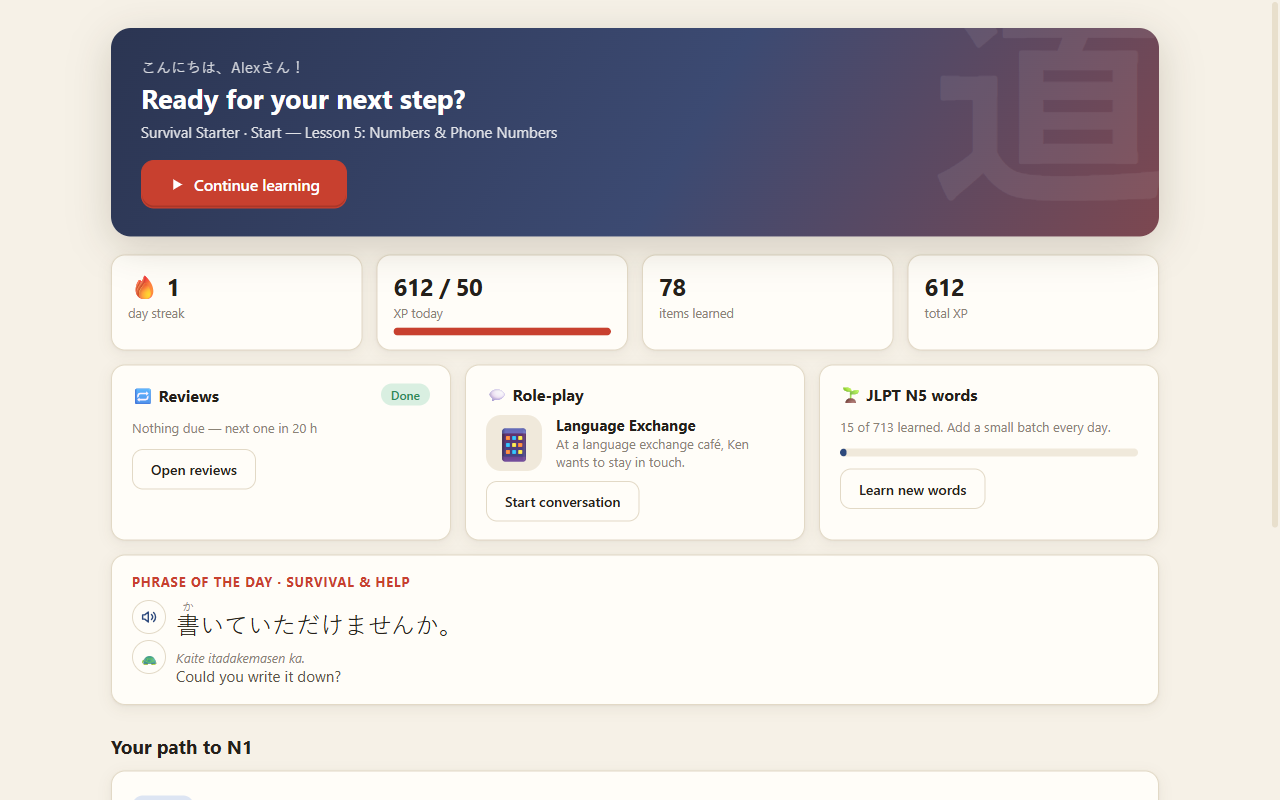
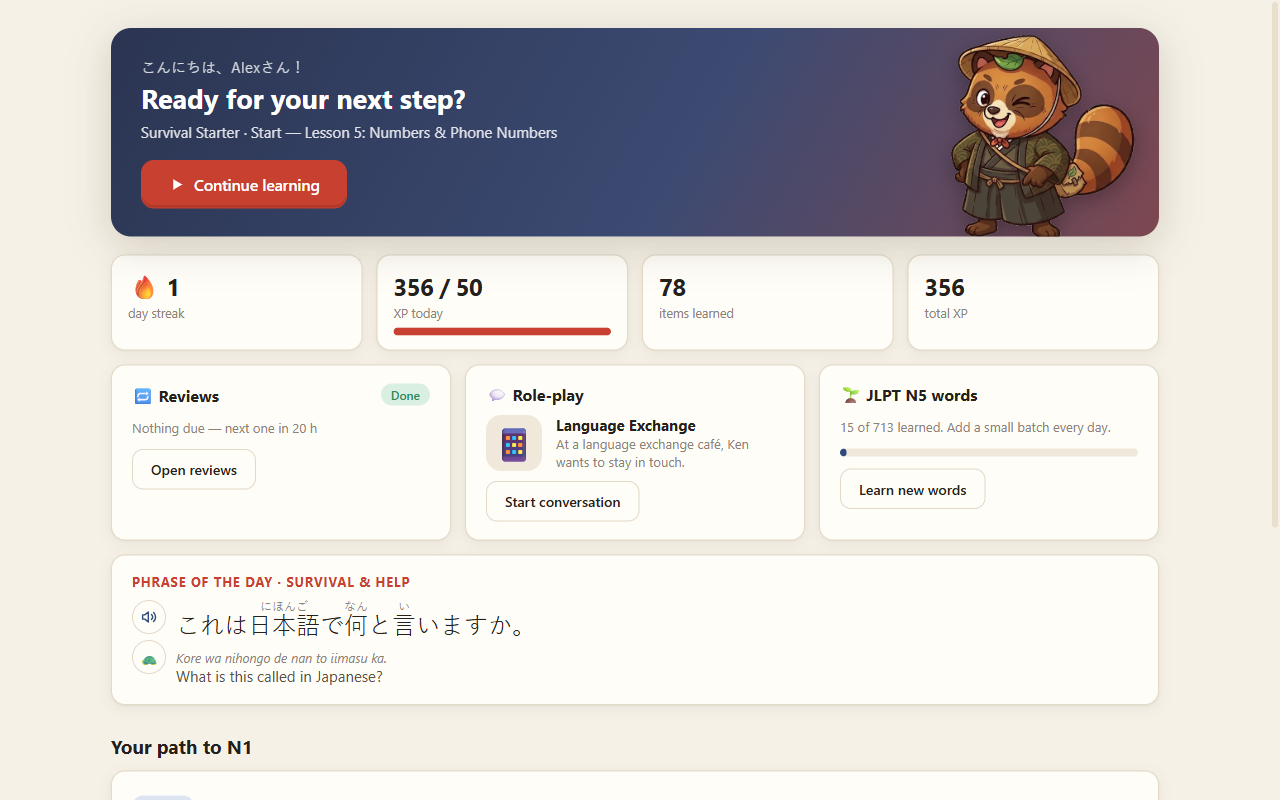
Add Tabi the tanuki mascot
Tabi (旅, "journey") — a travelling tanuki with a straw hat and a shape-shifting leaf — greets
learners on the welcome screen and in onboarding, stands at the edge of the home banner, and
cheers on the lesson and review completion screens with a line that depends on the result.
The artwork is cut out of its white background (transparent WebP, 46 KB) and included in the
offline cache. README shows Tabi and phone screenshots.

diff --git a/src/app/views.js b/src/app/views.js
@@ -40,11 +40,12 @@
     const goal = st.settings.dailyGoal || 50;
     const pg = h('div.page');
     const lvl = next ? next.lv : JT.LEVELS[JT.LEVELS.length - 1];
-    const hero = h('div.hero',
+    const hero = h('div.hero.with-mascot',
       h('div.hero-jp', jp + (st.name ? '、' + st.name + 'さん' : '') + '！'),
       h('h1', next ? (Object.keys(st.lessons).length ? 'Ready for your next step?' : 'Your journey to fluent Japanese starts here') : 'You have completed the whole course! 🏆'),
       h('div', { style: { opacity: 0.85 } }, next ? `${lvl.title} · ${lvl.tag} — Lesson ${next.index + 1}: ${next.title}` : 'Keep your reviews going and try the JLPT mock exams.'),
-      next ? h('button.btn.primary.lg', { type: 'button', onclick: () => JT.Lesson.start(next) }, icon('play'), Object.keys(st.lessons).length ? 'Continue learning' : 'Start lesson 1') : null);
+      next ? h('button.btn.primary.lg', { type: 'button', onclick: () => JT.Lesson.start(next) }, icon('play'), Object.keys(st.lessons).length ? 'Continue learning' : 'Start lesson 1') : null,
+      h('img.hero-mascot', { src: 'img/tabi.webp', alt: '', draggable: 'false' }));
     pg.appendChild(hero);
     const ab = audioBanner();
     if (ab) pg.appendChild(ab);
@@ -414,7 +415,7 @@
     const profiles = ix.profiles.slice().sort((a, b) => (b.lastUsed || 0) - (a.lastUsed || 0));
     const pg = h('div.profile-screen');
     pg.append(
-      h('div.logo', { style: { margin: '0 auto 14px', width: '68px', height: '68px', fontSize: '38px' } }, '道'),
+      JT.ui.mascot({ size: 150 }),
       h('div.jp.muted', profiles.length ? '今日は誰が勉強しますか？' : 'ようこそ！'),
       h('h1', profiles.length ? 'Who\'s learning today?' : 'Welcome to Nihongo Michi'),
       h('p.muted', profiles.length ? 'Each learner keeps their own lessons, reviews and streak.' : 'Real-world Japanese from zero to JLPT N1. First, tell us your name — everyone who uses this ' + JT.platform.device + ' gets their own progress.'));
@@ -546,7 +547,7 @@
       else JT.go('home');
     };
     m = JT.ui.modal([
-      h('div.center', h('div.logo', { style: { margin: '0 auto 12px', width: '64px', height: '64px', fontSize: '36px' } }, '道'),
+      h('div.center', JT.ui.mascot({ size: 120, say: [['はじめまして！', 'タビ です。'], 'Hi, I\'m Tabi! I\'ll walk the road to Japanese with you.'] }),
         h('div.jp.muted', 'ようこそ、' + JT.state.name + 'さん！'), h('h2', { style: { margin: '4px 0 6px' } }, 'Welcome to Nihongo Michi, ' + JT.state.name)),
       h('p.muted', { style: { textAlign: 'center', marginTop: 0 } }, 'Real-world Japanese from zero to JLPT N1.'),
       h('ul.goal-list.small',

diff --git a/src/styles.css b/src/styles.css
@@ -252,6 +252,22 @@ input[type=range] { accent-color: var(--accent); }
   color: rgba(255,255,255,.07); pointer-events: none;
 }
 .hero h1 { margin: 0 0 6px; font-size: 27px; }
+/* Tabi the tanuki standing at the edge of the home banner */
+.hero.with-mascot { padding-right: 230px; }
+.hero.with-mascot::after { display: none; }
+.hero-mascot { position: absolute; right: 22px; bottom: -6px; height: 210px; pointer-events: none; filter: drop-shadow(0 6px 10px rgba(0,0,0,.28)); }
+
+.mascot { display: block; margin: 0 auto; user-select: none; -webkit-user-drag: none; filter: drop-shadow(0 4px 8px rgba(60,40,10,.18)); }
+.mascot-say { display: flex; align-items: center; justify-content: center; gap: 4px; margin-bottom: 6px; }
+.mascot-say .mascot { margin: 0; }
+.say-bubble {
+  position: relative; background: var(--surface); border: 1.5px solid var(--line); border-radius: 16px; padding: 10px 16px;
+  text-align: left; box-shadow: var(--shadow); max-width: 260px; margin-bottom: 40px;
+}
+.say-bubble::before { content: ""; position: absolute; left: -9px; top: 50%; width: 14px; height: 14px; background: var(--surface); border-left: 1.5px solid var(--line); border-bottom: 1.5px solid var(--line); transform: translateY(-50%) rotate(45deg); }
+.say-bubble .jpt { font-size: 19px; font-weight: 700; line-height: 1.5; }
+.profile-screen .mascot { margin-bottom: 10px; }
+:root[data-theme="dark"] .mascot { filter: drop-shadow(0 0 1px rgba(255,255,255,.35)) drop-shadow(0 4px 10px rgba(0,0,0,.5)); }
 .hero .hero-jp { font-family: var(--jp); opacity: .8; font-size: 15px; }
 .hero .btn.primary { margin-top: 18px; }
 .stat-tiles { display: grid; grid-template-columns: repeat(4, minmax(0,1fr)); gap: 14px; }
@@ -537,6 +553,12 @@ table.tbl td, table.tbl th { padding: 8px 10px; border-bottom: 1px solid var(--l
   .hero { padding: 20px 18px; border-radius: 16px; }
   .hero h1 { font-size: 22px; }
   .hero::after { font-size: 170px; bottom: -44px; }
+  .hero.with-mascot { padding-right: 18px; padding-bottom: 22px; }
+  .hero.with-mascot .btn.primary { position: relative; z-index: 1; }
+  .hero-mascot { height: 118px; right: 8px; bottom: -4px; }
+  .hero.with-mascot > div:not(.hero-jp) { padding-right: 104px; }   /* the lesson line stays clear of Tabi */
+  .say-bubble { max-width: 200px; padding: 8px 12px; }
+  .say-bubble .jpt { font-size: 17px; }
   .btn.lg { padding: 12px 20px; font-size: 15px; }
   /* text next to a button or control keeps a readable width; the control drops below it when there's no room */
   .list-row { flex-wrap: wrap; padding: 12px 14px; }

diff --git a/src/lib/ui.js b/src/lib/ui.js
@@ -172,6 +172,16 @@
     return { close, el: box };
   }
 
+  // Tabi (旅, "journey") the tanuki, the learner's travel companion on the road to Japanese.
+  // opts.size: height in px; opts.say: [Japanese markup (or an array of lines), English] shown in a speech bubble.
+  function mascot(opts = {}) {
+    const img = h('img.mascot', { src: 'img/tabi.webp', alt: 'Tabi the tanuki', draggable: 'false', style: { height: (opts.size || 140) + 'px' } });
+    if (!opts.say) return img;
+    const [jp, en] = opts.say;
+    const lines = (Array.isArray(jp) ? jp : [jp]).map(l => JT.T.el(l, { furigana: 'always', tag: 'div' }));
+    return h('div.mascot-say', img, h('div.say-bubble', lines, en ? h('div.small.muted', en) : null));
+  }
+
   function confirmBox(title, msg, okLabel = 'OK', cancelLabel = 'Cancel') {
     return new Promise(resolve => {
       let m;
@@ -306,6 +316,6 @@
 
   JT.ui = {
     h, append, clear, icon, ICONS, shuffle, sample, pick, uniqBy, clamp, timeUntil, showRomaji, avatar,
-    sayBtn, recBtn, jpBlock, toast, modal, confirmBox, ring, stars, confetti, xpPop, strokeBox
+    sayBtn, recBtn, jpBlock, toast, modal, confirmBox, ring, stars, confetti, xpPop, strokeBox, mascot
   };
 })();

diff --git a/tools/build-web.js b/tools/build-web.js
@@ -10,7 +10,7 @@ const SRC = path.join(__dirname, '..', 'src');
 const html = fs.readFileSync(path.join(SRC, 'index.html'), 'utf8');
 const refs = [...html.matchAll(/(?:src|href)="([^"#:]+)"/g)].map(m => m[1]);
 const files = ['index.html', ...refs];
-for (const f of fs.readdirSync(path.join(SRC, 'icons'))) files.push('icons/' + f);
+for (const dir of ['icons', 'img']) for (const f of fs.readdirSync(path.join(SRC, dir))) files.push(dir + '/' + f);
 const list = [...new Set(files)].filter(f => fs.existsSync(path.join(SRC, f)));
 const missing = [...new Set(files)].filter(f => !fs.existsSync(path.join(SRC, f)));
 if (missing.length) { console.error('missing files:', missing.join(', ')); process.exit(1); }

diff --git a/src/app/review.js b/src/app/review.js
@@ -25,7 +25,7 @@
         const up = res.results.filter(r => r.correct).length;
         JT.ui.clear(stage);
         stage.appendChild(h('div.done-wrap',
-          h('div.big-emoji', res.score >= 0.9 ? '🌸' : res.score >= 0.7 ? '👍' : '📚'),
+          JT.ui.mascot({ size: 120, say: res.score >= 0.9 ? ['かんぺき！', 'Perfect memory!'] : res.score >= 0.7 ? ['おつかれさま！', 'Nice work — see you next review.'] : ['だいじょうぶ！', 'No worries — the tricky ones come back sooner.'] }),
           h('h1', 'Review done!'),
           h('div.done-stats',
             h('div.stat', h('b', Math.round(res.score * 100) + '%'), h('span', 'accuracy')),

diff --git a/src/app/lesson.js b/src/app/lesson.js
@@ -301,7 +301,7 @@
     const pct = Math.round(res.score * 100);
     JT.ui.clear(stage);
     stage.appendChild(h('div.done-wrap',
-      h('div.big-emoji', stars === 3 ? '🎉' : stars === 2 ? '😊' : '💪'),
+      JT.ui.mascot({ size: 130, say: stars === 3 ? ['すばらしい！', 'Excellent!'] : stars === 2 ? ['よく できました！', 'Well done!'] : ['がんばりました ね！', 'You stuck with it — that\'s how you learn!'] }),
       h('h1', { style: { margin: '10px 0 4px' } }, 'Lesson complete!'),
       h('div.muted', L.title),
       h('div', { style: { fontSize: '30px', marginTop: '8px' } }, JT.ui.stars(stars)),

diff --git a/src/sw.js b/src/sw.js
@@ -1,5 +1,5 @@
 /* Offline cache for the Nihongo Michi web app. Generated by tools/build-web.js — do not edit. */
-const VERSION = 'michi-56fd425a7b4f';
+const VERSION = 'michi-75c04c4fcdf2';
 const FILES = [
   "./",
   "index.html",
@@ -53,7 +53,8 @@ const FILES = [
   "app/library.js",
   "app/main.js",
   "icons/icon-512.png",
-  "icons/icon-maskable-512.png"
+  "icons/icon-maskable-512.png",
+  "img/tabi.webp"
 ];
 
 self.addEventListener('install', e => {

diff --git a/README.md b/README.md
@@ -1,9 +1,14 @@
 # Nihongo Michi 日本語の道
 
-A free Windows desktop app that teaches Japanese from zero to JLPT N1, with the emphasis on
-real-world, conversational Japanese. You start by surviving a trip to Japan (ordering ramen,
-asking for directions, paying) and work up through the JLPT levels with grammar, reading,
+<img src="src/img/tabi.webp" align="right" height="190" alt="Tabi the tanuki">
+
+A free app for Windows, iPhone and Android that teaches Japanese from zero to JLPT N1, with the
+emphasis on real-world, conversational Japanese. You start by surviving a trip to Japan (ordering
+ramen, asking for directions, paying) and work up through the JLPT levels with grammar, reading,
 kanji and plenty of role-play conversations along the way.
+
+Your guide on the road (*michi*) is **Tabi** (旅, "journey"), a travelling tanuki with a straw hat and
+the leaf tanuki use for their shape-shifting tricks.
 
 ![Home screen](docs/screenshots/home.png)
 
@@ -29,6 +34,12 @@ home screen. It then opens full screen like an app and works offline.
 - **Android (Chrome):** tap *Install app* in the app, or the ⋮ menu → *Install app*.
 - **Japanese voice:** iPhones: Settings → Accessibility → Spoken Content → Voices → Japanese. Android: Settings →
   Languages & input → Text-to-speech → install Japanese voice data.
+
+<p>
+  <img src="docs/screenshots/phone-home.png" width="260" alt="Home screen on a phone">
+  &nbsp;
+  <img src="docs/screenshots/phone-lesson-done.png" width="260" alt="Lesson complete on a phone">
+</p>
 
 ## Syncing between PC and phone
 
